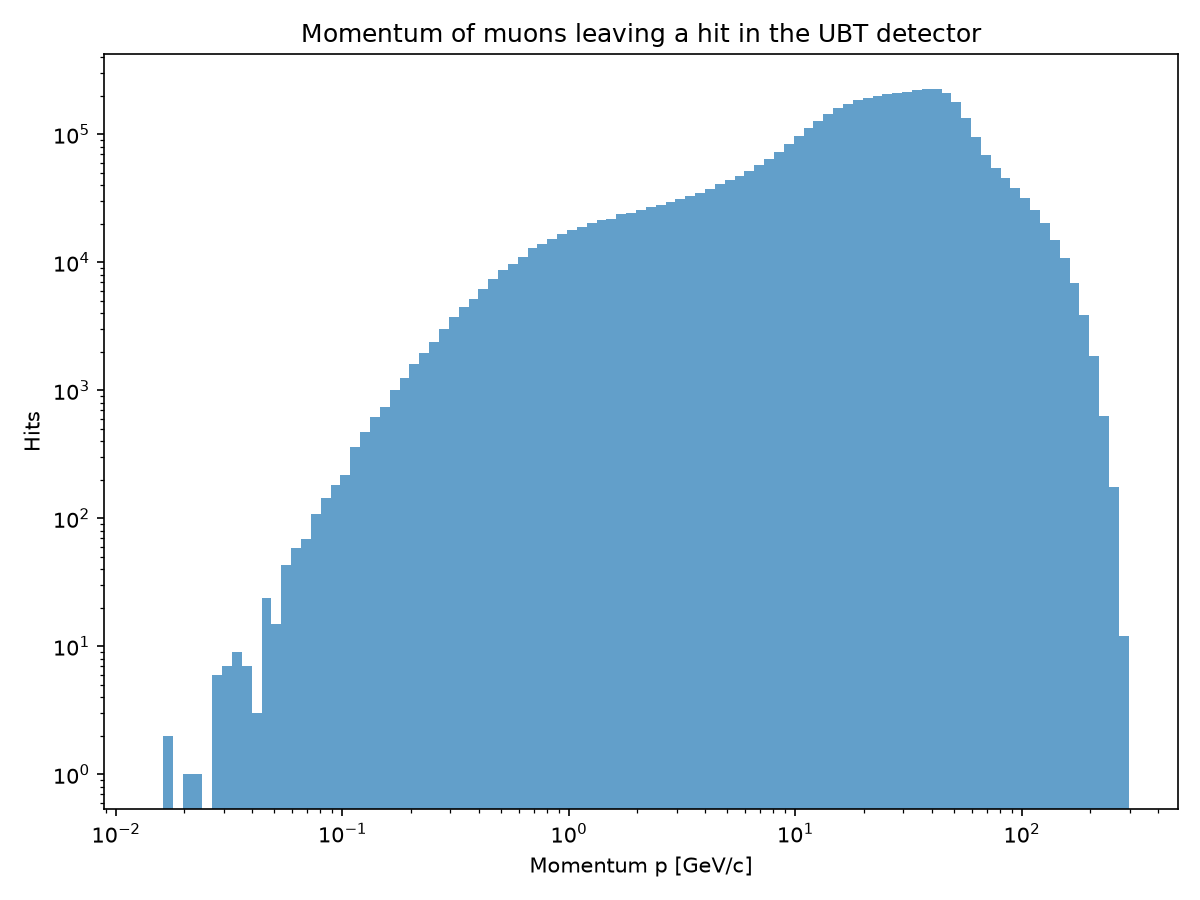
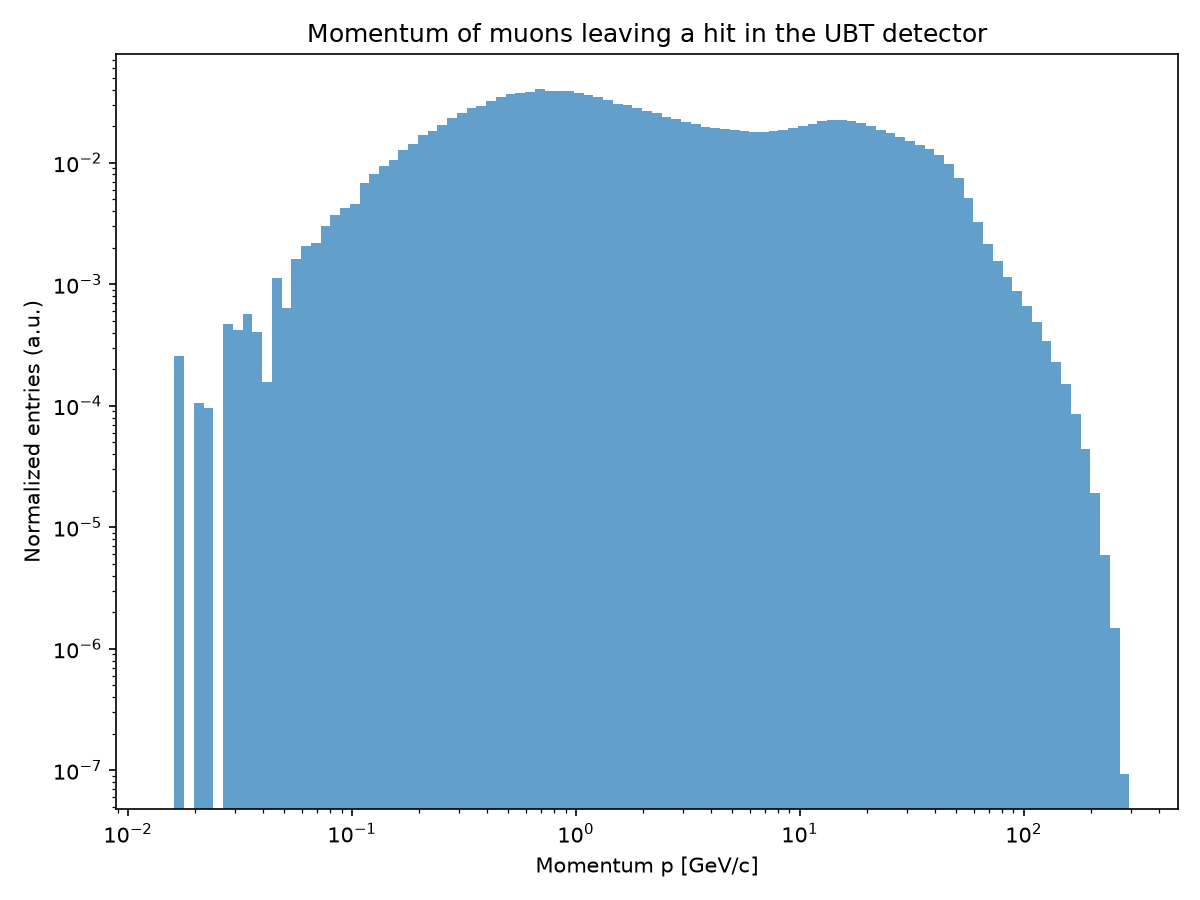
Normalize momentum plots and use log-y for per-tile rate histogram
Regenerate the per-species UBT hit momentum plots as unit-area
normalized 1D histograms so their shapes are comparable across
species, and redraw the per-tile expected hit-rate histogram on
slide 13 with a log-scale y-axis to make the high-rate tail visible.

diff --git a/slides/slides.tex b/slides/slides.tex
@@ -388,7 +388,7 @@
     \begin{column}{0.5\textwidth}
       \centering
       \includegraphics[height=2.9cm]{figs/ubt_digitized_hits_hits_per_tile.png}\\[2pt]
-      \footnotesize Per-tile expected hit-rate distribution
+      \footnotesize Per-tile expected hit-rate distribution (log $y$)
     \end{column}
   \end{columns}
   \vspace{4pt}
